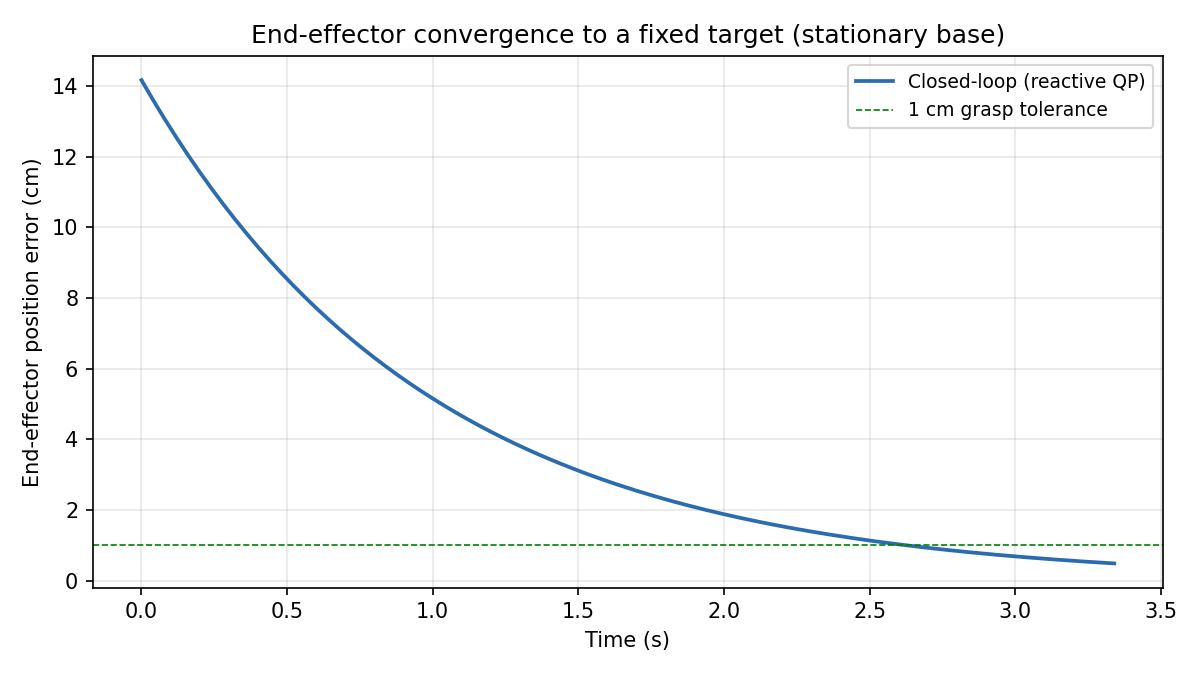
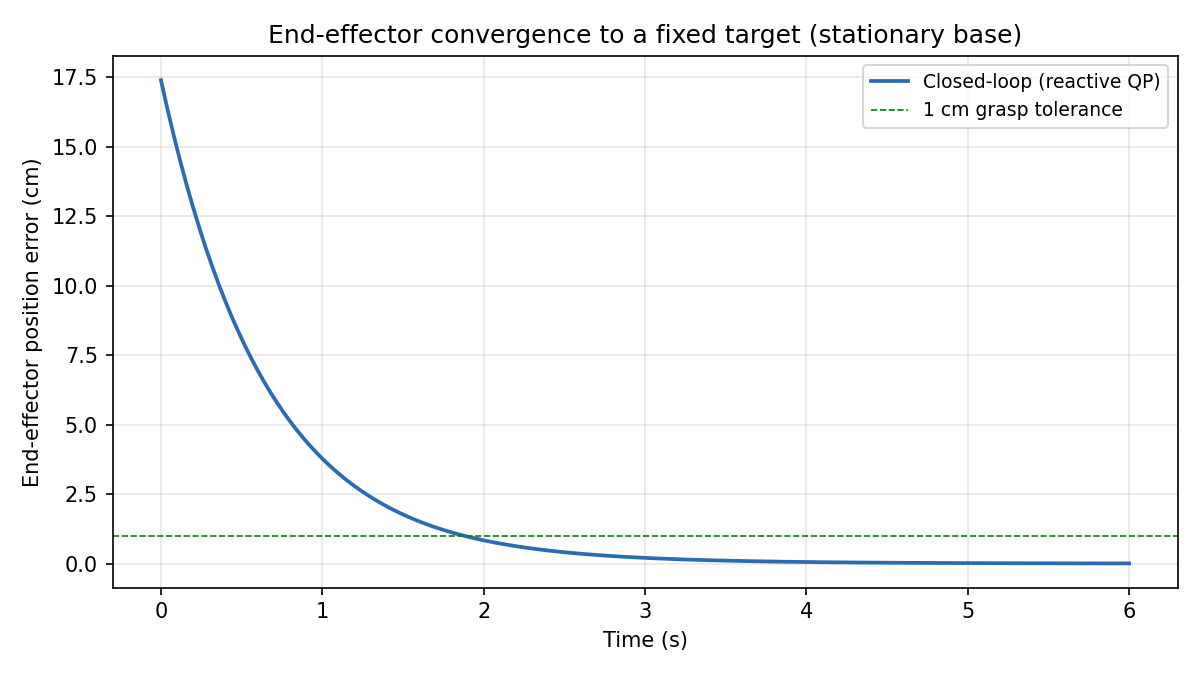
Regenerate M1/M2 figures + videos for the full-pose (grasp) result
Figures and skeleton videos now reflect the feasible-grasp-pose hold over the
0.15 m base-travel window (position + orientation), replacing the earlier
position-only renders. record.py uses feasible_grasp_pose and the fixed-
distance drive.

diff --git a/swift_sim/record.py b/swift_sim/record.py
@@ -25,22 +25,31 @@ from matplotlib.animation import FuncAnimation, FFMpegWriter
 import spatialmath as sm
 
 from omx_tb3 import make_omx_tb3, N_BASE
-from run_m2 import solve_arm_qd
+from run_m2 import solve_arm_qd, feasible_grasp_pose, pose_error
 
 
-def simulate(feedback, v_base, drive_time=5.0, settle=2.5, dt=0.02):
-    """Run the M1/M2 loop; return (qtraj, phases, robot, Tep, errs)."""
+GRASP_POSE = feasible_grasp_pose([0.22, 0.0, 0.06])
+
+
+def simulate(feedback, v_base, drive_dist=0.15, settle=3.0, dt=0.02):
+    """Run the M1/M2 loop; return (qtraj, phases, robot, Tep, errs).
+
+    M1 = v_base 0 (base never moves). M2 = base drives a fixed distance while
+    the arm holds the feasible grasp pose.
+    """
     robot = make_omx_tb3()
     robot.q = robot.qr
-    Tep = sm.SE3(0.20, 0.10, 0.18) * sm.SE3.OA([0, 1, 0], [0, 0, -1])
+    Tep = GRASP_POSE
 
     qtraj, phases, errs = [], [], []
     q_latched = None
     t = 0.0
-    while t < settle + drive_time:
+    dist = 0.0
+    while t < settle or (v_base > 0 and dist < drive_dist):
         driving = t >= settle
         if driving and v_base > 0:
             robot.q[1] += v_base * dt
+            dist += v_base * dt
         if q_latched is None:
             q_latched = robot.q.copy()
 
@@ -57,8 +66,11 @@ def simulate(feedback, v_base, drive_time=5.0, settle=2.5, dt=0.02):
 
         qtraj.append(robot.q.copy())
         phases.append("drive" if driving else "settle")
-        errs.append(float(np.linalg.norm(Tep.t - robot.fkine(robot.q).t)))
+        pe, _ = pose_error(robot.fkine(robot.q), Tep)
+        errs.append(pe)
         t += dt
+        if v_base == 0 and t >= settle:    # M1: end shortly after settle
+            break
     return np.array(qtraj), phases, robot, Tep, errs
 
 